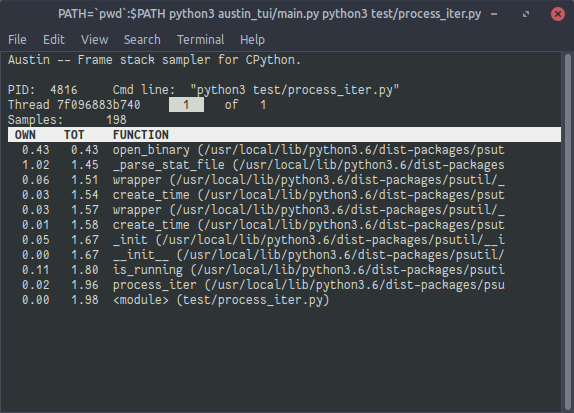
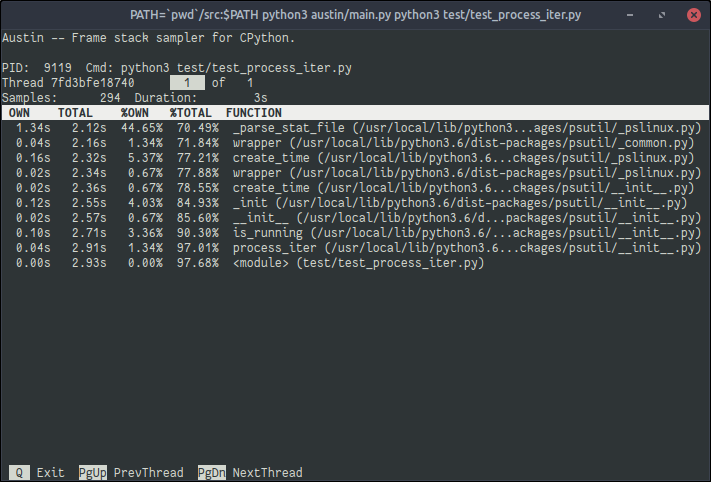
Feature/TUI (#6)
The PageUp and PageDown keys can be used to change the currently 
displayed thread.

diff --git a/austin/tui.py b/austin/tui.py
@@ -1,0 +1,238 @@
+import curses
+import time
+
+import stats
+from austin import Austin
+
+
+TITLE_LINE = 0
+PROC_LINE = TITLE_LINE + 2
+THREAD_LINE = PROC_LINE + 1
+SAMPLES_LINE = THREAD_LINE + 1
+TABHEAD_LINE = THREAD_LINE + 2
+
+
+def writeln(scr, *args, **kwargs):
+    scr.addstr(*args, **kwargs)
+    scr.clrtoeol()
+
+
+def ellipsis(text, length):
+    if len(text) <= length:
+        return text
+
+    f, rest = text.split()
+
+    if len(f) > length:
+        return f[:length-3]+"..."
+
+    if len(f) + 6 <= length:
+        length -= len(f) + 1
+        return f + " " + rest[:(length >> 1)-2] + "..." + rest[-(length >> 1)+1:]
+
+    return f
+
+
+class Label:
+    def __init__(self, scr, y, x, text=None, attr=0):
+        self.scr = scr
+        self.x = x
+        self.y = y
+        self.attr = attr
+        if text:
+            self.set_text(text)
+
+    def set_text(self, text, attr=None):
+        if not attr:
+            attr = self.attr
+
+        self.scr.addstr(self.y, self.x, text, attr)
+
+        return attr
+
+
+class Line(Label):
+    def set_text(self, text, attr=None):
+        self.scr.chgat(super().set_text(text, attr))
+
+
+def command_list(scr, y, cmd_list):
+    x = 1
+
+    for label, key in cmd_list.items():
+        scr.addstr(y, x, key, curses.A_REVERSE)
+        x += len(key) + 1
+        scr.addstr(y, x, label)
+        x += len(label) + 2
+        if x > curses.COLS:
+            scr.chgat(0)
+            x = 1
+            y += 1
+
+
+class AustinTUI:
+
+    def __init__(self, args):
+        super().__init__()
+
+        self.args = args
+        self.current_threads = None
+        self.current_thread = None
+        self.current_thread_index = 0
+
+    def update_view(self, scr):
+        stacks = self.stats.get_current_stacks()
+        if not stacks:
+            return
+
+        self.current_threads = sorted(stacks.keys())
+        if (
+            not self.current_thread or
+            self.current_thread not in self.current_threads
+        ):
+            self.current_thread = self.current_threads[0]
+            self.current_thread_index = 0
+
+        thread = self.current_thread
+        self.current_thread_index = self.current_threads.index(thread)
+
+        self.thread_line.set_text("{:29} of {:^5}".format(
+            thread,
+            len(self.current_threads),
+        ))
+        self.thread_num.set_text("{:^5}".format(self.current_thread_index + 1))
+
+        duration = time.time() - self.start_time
+        self.samples_line.set_text("Samples: {:8}  Duration: {:8}s".format(
+            self.stats.samples,
+            int(duration)
+        ))
+
+        # Reverse the stack (top frames first)
+        stack = stacks[thread][::-1]
+
+        i = 1  # Keep track of the line number
+        for frame in stack:
+            writeln(
+                scr,
+                TABHEAD_LINE + i, 1,
+                "{:5.2f}s  {:5.2f}s  {:5.2f}%  {:5.2f}%  {}".format(
+                    frame["own_time"] / 1e6,
+                    frame["tot_time"] / 1e6,
+                    frame["own_time"] / 1e4 / duration,
+                    frame["tot_time"] / 1e4 / duration,
+                    ellipsis(frame["function"], curses.COLS - 34)
+                )
+            )
+
+            # Don't overfill the screen
+            # TODO: Consider using a widget for this (Pod?)
+            if i > curses.LINES - TABHEAD_LINE - 2:
+                break
+            i += 1
+
+        # Clean lines from previous sample
+        if i < self.max_line:
+            while i < self.max_line:
+                writeln(scr, TABHEAD_LINE + i, 1, " ")
+                i += 1
+
+        self.max_line = i
+
+    def handle_keypress(self, scr):
+        try:
+            key = scr.getkey()
+            if key == "q":
+                return -1
+
+            if key == "KEY_NPAGE":
+                if self.current_thread_index < len(self.current_threads) - 1:
+                    self.current_thread_index += 1
+                    self.current_thread = self.current_threads[self.current_thread_index]
+
+            elif key == "KEY_PPAGE":
+                if self.current_thread_index > 0:
+                    self.current_thread_index -= 1
+                    self.current_thread = self.current_threads[self.current_thread_index]
+
+            return 0
+        except curses.error:
+            return 1
+
+    def run(self, scr):
+        curses.curs_set(0)
+        scr.clear()
+        scr.timeout(1000)
+
+        # ---- Header ---------------------------------------------------------
+
+        Line(scr, TITLE_LINE, 0, "Austin -- Frame stack sampler for CPython.")
+        Line(scr, PROC_LINE, 0, "PID: {:5}  Cmd: {}".format(
+            self.austin.get_pid(),
+            self.austin.get_cmd_line()
+        ))
+
+        self.thread_line = Line(scr, THREAD_LINE, 0, "Sampling...")
+        self.thread_num = Label(scr, THREAD_LINE, 24, attr=curses.A_REVERSE)
+
+        self.samples_line = Line(scr, SAMPLES_LINE, 0)
+
+        # ---- Table ----------------------------------------------------------
+
+        Line(scr, TABHEAD_LINE, 0, "{:^6}  {:^6}  {:^6}  {:^6}  {}".format(
+            "OWN",
+            "TOTAL",
+            "%OWN",
+            "%TOTAL",
+            "FUNCTION"
+        ), curses.A_REVERSE | curses.A_BOLD)
+
+        # ---- Footer ---------------------------------------------------------
+
+        command_list(scr, curses.LINES - 1, {
+            "Exit": " Q ",
+            "PrevThread": "PgUp",
+            "NextThread": "PgDn",
+        })
+
+        scr.refresh()
+
+        # Prepare to refresh the screen
+        self.max_line = 0  # Keep track of the number of rows written previously
+        self.start_time = time.time()  # Keep track of the duration
+
+        while self.austin.is_alive():
+            # NOTE: This might not be required
+            if self.austin.quit_event.wait(0):
+                break
+
+            self.update_view(scr)
+
+            # Process user input
+            if self.handle_keypress(scr) < 0:
+                break
+
+        # We are about to shut down
+        if self.austin.is_alive():
+            scr.addstr(curses.LINES - 1, 1, "Waiting for process to terminate...")
+            scr.clrtoeol()
+            scr.refresh()
+
+            self.austin.join()
+        else:
+            scr.addstr(curses.LINES - 1, 1, "Process terminated")
+
+    def start(self):
+        self.stats = stats.Stats()
+
+        self.austin = Austin(
+            self.stats,
+            self.args
+        )
+        self.austin.start()
+
+        if (self.austin.start_event.wait(1)):
+            curses.wrapper(self.run)
+        else:
+            print("Austin took too long to start. Terminating...")
+            exit(1)

diff --git a/austin/stats.py b/austin/stats.py
@@ -1,7 +1,6 @@
 from collections import deque
 from threading import RLock
 
-
 ATOM_LOCK = RLock()
 
 
@@ -66,7 +65,7 @@ def parse_line(line):
         frames = frames.split(";")
     except ValueError:
         # Probably an "empty" thread
-        thread, duration = line.rsplit(maxsplit=1)
+        thread, duration = line.decode().rsplit(maxsplit=1)
         frames = []
 
     return thread, frames, int(duration)

diff --git a/austin/austin.py b/austin/austin.py
@@ -50,6 +50,6 @@ class Austin(Thread):
             line = self.austin.stdout.readline()
             if not line:
                 break
-            self.stats.add_thread_sample(line)
+            self.stats.add_thread_sample(bytes(line))
 
         self.quit_event.set()

diff --git a/README.md b/README.md
@@ -19,10 +19,10 @@ spirit to [py-spy](https://github.com/benfred/py-spy).
 
 ![tui](art/austin-tui_wip.png)
 
-The current version only supports the 64-bit version of Python 3.6 on
-Linux-based operating systems that has not been compiled wit the
-`--enable-shared` flag. There is a plan to first support more Python versions,
-then the 32-bit architecture and finally more operating systems.
+The current version only supports the 64-bit versions of Python on
+Linux-based operating systems that have not been compiled with the
+`--enable-shared` flag. Support for the i386 architecture is next in line, and
+then there might be support for other operating systems too.
 
 > **NOTE** The TUI is still work in progress. Its main purpose is to provide
 > an example of how to use the output produce by Austin rather than an
@@ -233,6 +233,15 @@ for i in range(1000):
 
 The tall stack on the left is the initialisation phase of the Python
 interpreter.
+
+The Python TUI that is currently included in this repository is experimental and
+work in progress. It serves the purpose of providing an example of how to use
+Austin to profile Python applications. Here is a recording of the TUI in action
+with a sample script that spawns a new thread and keeps the CPU busy with a CPU
+bound loop on each thread. You can use PageUp and PageDown to explore the
+frame stack of each frame as the Python application runs.
+
+![austin-tui thread navigation](art/austin-tui_threads_nav.gif)
 
 
 ----
